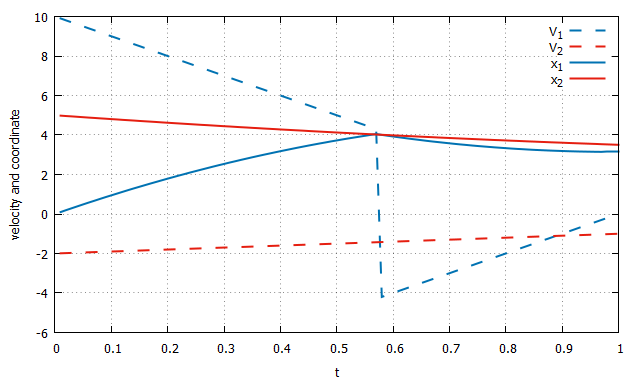
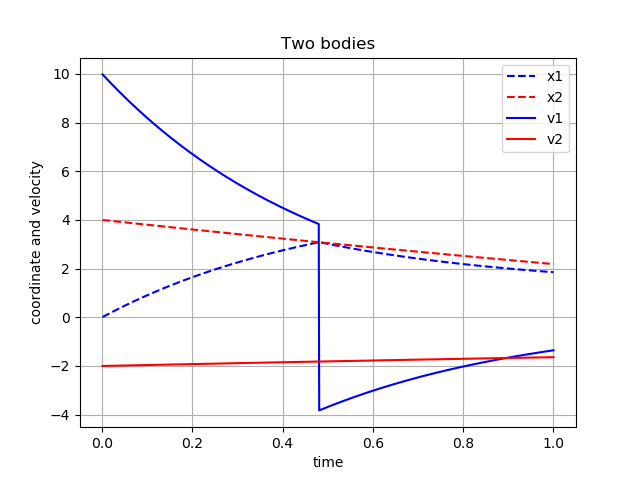
Updated two-body example related to issue #27

diff --git a/examples/two_bodies/two_bodies.cpp b/examples/two_bodies/two_bodies.cpp
@@ -1,25 +1,37 @@
 /*
- * Two bodies with with masses m and 10*m head to each other.
- * The friction force F is constant and depends on the sign of velocity v:
- * F = -sign(v) * F0.
+ * Two bodies with masses m and 10*m head to each other.
+ * The friction force F is proportional to the velocity v and has the opposite
+ * sign: F = -v * f0, where f0 is a constant.
+ *
  * After collision, the body with mass m bounces in the other direction
- * (and hence flips the sign of the friction force).
+ * (and hence the sign of the friction force instantly changes to the opposite).
  *
  * The system of equations is the following:
  *
- * dv1/dt = -sign(v1) * F0 / m
- * dv2/dt = -sign(v2) * F0 / (10 * m)
+ * dv1/dt = -v1 * f0 / m
+ * dv2/dt = -v2 * f0 / (10 * m)
  * dx1/dt = v1
  * dx2/dt = v2
  *
- * Here v1 and x1 is the velocity and the coordinate of the first body,
- * v2 and x2 is the velocity and the coordinate of the second body.
+ * Here v1 and x1 are the velocity and the coordinate of the first body,
+ * v2 and x2 are the velocity and the coordinate of the second body.
  *
  * When x1 reaches x2, the velocity direction of the body with mass m changes to
  * the opposite.
  *
  * As an example, let us consider the following initial conditions:
- * v1 = 10, v2 = -2, x1 = 0, x2 = 5 for t = 0.
+ * v1 = 10, v2 = -2, x1 = 0, x2 = 4 for t = 0.
+ *
+ * Constants f0 = 2, m = 1.
+ *
+ * This is a very simplified collision model but the goal is to demostrate how
+ * the Observer function can be used as the event function, where the user can
+ * update the state vector (change velocity direction, for example) during the
+ * time integration.
+ *
+ * Note that in the solver options, the time step is restricted (in order to
+ * better resolve the collision event in time) and we use BDF-1 time integrator
+ * to avoid oscillations.
  */
 
 #include <iostream>
@@ -43,7 +55,7 @@ namespace plt = matplotlibcpp;
  */
 class MyRHS : public RHS
 {
-    const double f0 = 10.0;
+    const double f0 = 2.0;
     const double m  = 1.0;
 
 public:
@@ -53,8 +65,8 @@ public:
      */
     void operator()(const state_type &x, state_type &f, const double t)
     {
-        double F1 = -std::copysign(1.0, x[0]) * f0;
-        double F2 = -std::copysign(1.0, x[1]) * f0;
+        double F1 = -x[0] * f0;
+        double F2 = -x[1] * f0;
 
         f[0] = F1 / m;
         f[1] = F2 / (10.0 * m);
@@ -64,12 +76,8 @@ public:
 };
 
 /*
- * (Optional) Observer
+ * Observer (event) function implementation
  * =============================================================================
- * Every time step checks that
- * (1) x*x + y*y = 1, and
- * (2) x(t) - sin(t) = 0 for t <= pi/2, x(t) = 1 for t > pi/2
- * and prints solution and errors to console.
  */
 class MySolver : public Solver
 {
@@ -89,6 +97,7 @@ public:
      */
     void observer(state_type &x, const double t)
     {
+        // Print solution to screen every time step
         std::cout << t << '\t' << x[0] << '\t' << x[1] << '\t' << x[2] << '\t'
                   << x[3] << '\n';
 
@@ -110,25 +119,6 @@ public:
 };
 
 /*
- * (Optional) Analytical Jacobian in simplified 3-array sparse format
- * =============================================================================
- */
-class MyJacobian : public Jacobian
-{
-public:
-    explicit MyJacobian(RHS &rhs) : Jacobian(rhs) {}
-
-    /*
-     * Receives the current solution vector x and the current time t. Defines
-     * the analytical Jacobian matrix J.
-     */
-    void operator()(sparse_matrix_holder &J, const state_type &x,
-                    const double t)
-    {
-    }
-};
-
-/*
  * MAIN FUNCTION
  * =============================================================================
  * Returns '0' if solution comparison is OK or '1' if solution error is above
@@ -137,7 +127,7 @@ public:
 int main()
 {
     // Solution time 0 <= t <= t1
-    double t1 = 1.0;
+    double t1 = 1;
 
     // Define the state vector for 4 equations
     state_type x(4);
@@ -146,7 +136,7 @@ int main()
     x[0] = 10;  // Initial velocity v1
     x[1] = -2;  // Initial velocity v2
     x[2] = 0;   // Initial coordinate x1
-    x[3] = 5;   // Initial coordinate x2
+    x[3] = 4;   // Initial coordinate x2
 
     // Set up the RHS of the problem.
     // Class MyRHS inherits abstract RHS class from dae-cpp library.
@@ -165,18 +155,14 @@ int main()
     opt.bdf_order = 1;      // Use BDF-1
     opt.verbosity = 0;      // Suppress output to screen (we have our own output
                             // defined in Observer function above)
-    opt.dt_init = 0.01;     // Change the initial time step
-    opt.dt_max  = 0.01;     // Restrict the maximum time step
+    opt.dt_init = 0.001;    // Change the initial time step
+    opt.dt_max  = 0.001;    // Restrict the maximum time step
 
-    // We can override Jacobian class from dae-cpp library and provide
-    // analytical Jacobian.
-    // MyJacobian jac(rhs);
-
-    // Or we can use numerically estimated Jacobian with the given tolerance.
+    // We can use numerically estimated Jacobian with the given tolerance
     Jacobian jac(rhs, 1e-8);
 
-    // Create an instance of the solver with particular RHS, Mass matrix,
-    // Jacobian and solver options
+    // Create an instance of the solver with the RHS, Mass matrix, Jacobian and
+    // the solver options
     MySolver solve(rhs, jac, mass, opt);
 
     // Now we are ready to solve the set of DAEs
@@ -188,19 +174,22 @@ int main()
 
     // Plot the solution
 #ifdef PLOTTING
-    // plt::figure();
-    // plt::figure_size(640, 480);
-    // plt::named_semilogx("x", solve.x_axis, solve.x0);
-    // plt::named_semilogx("y", solve.x_axis, solve.x1);
-    // plt::xlabel("time");
-    // plt::title("Two bodies");
-    // plt::grid(true);
-    // plt::legend();
+    plt::figure();
+    plt::figure_size(640, 480);
+    plt::named_plot("x1", solve.x_axis, solve.x1, "b--");
+    plt::named_plot("x2", solve.x_axis, solve.x2, "r--");
+    plt::named_plot("v1", solve.x_axis, solve.v1, "b-");
+    plt::named_plot("v2", solve.x_axis, solve.v2, "r-");
+    plt::xlabel("time");
+    plt::ylabel("coordinate and velocity");
+    plt::title("Two bodies");
+    plt::grid(true);
+    plt::legend();
 
-    // // Save figure
-    // const char *filename = "two_bodies.png";
-    // std::cout << "Saving result to " << filename << "...\n";
-    // plt::save(filename);
+    // Save figure
+    const char *filename = "two_bodies.png";
+    std::cout << "Saving result to " << filename << "...\n";
+    plt::save(filename);
 #endif
 
     if(status)
